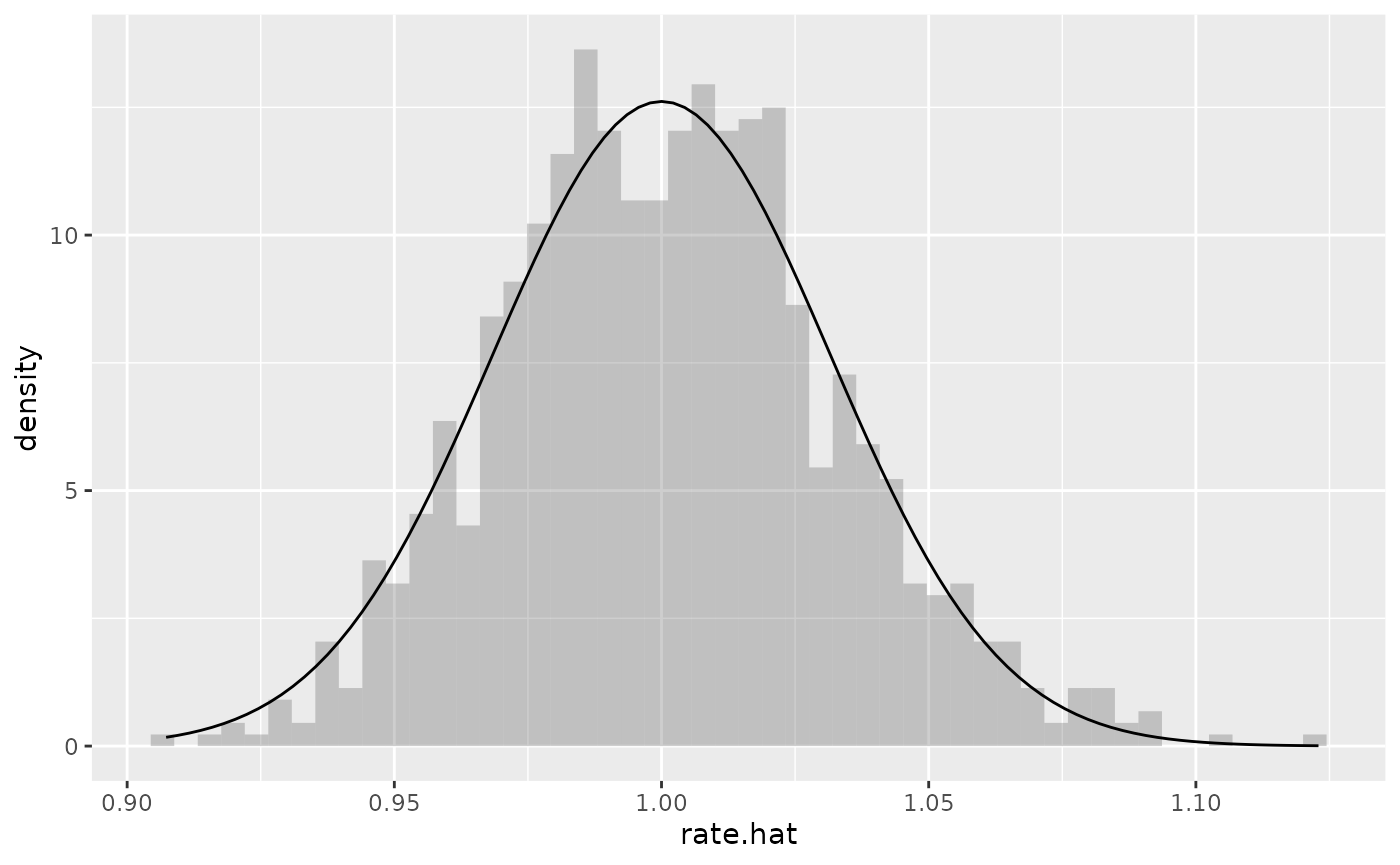
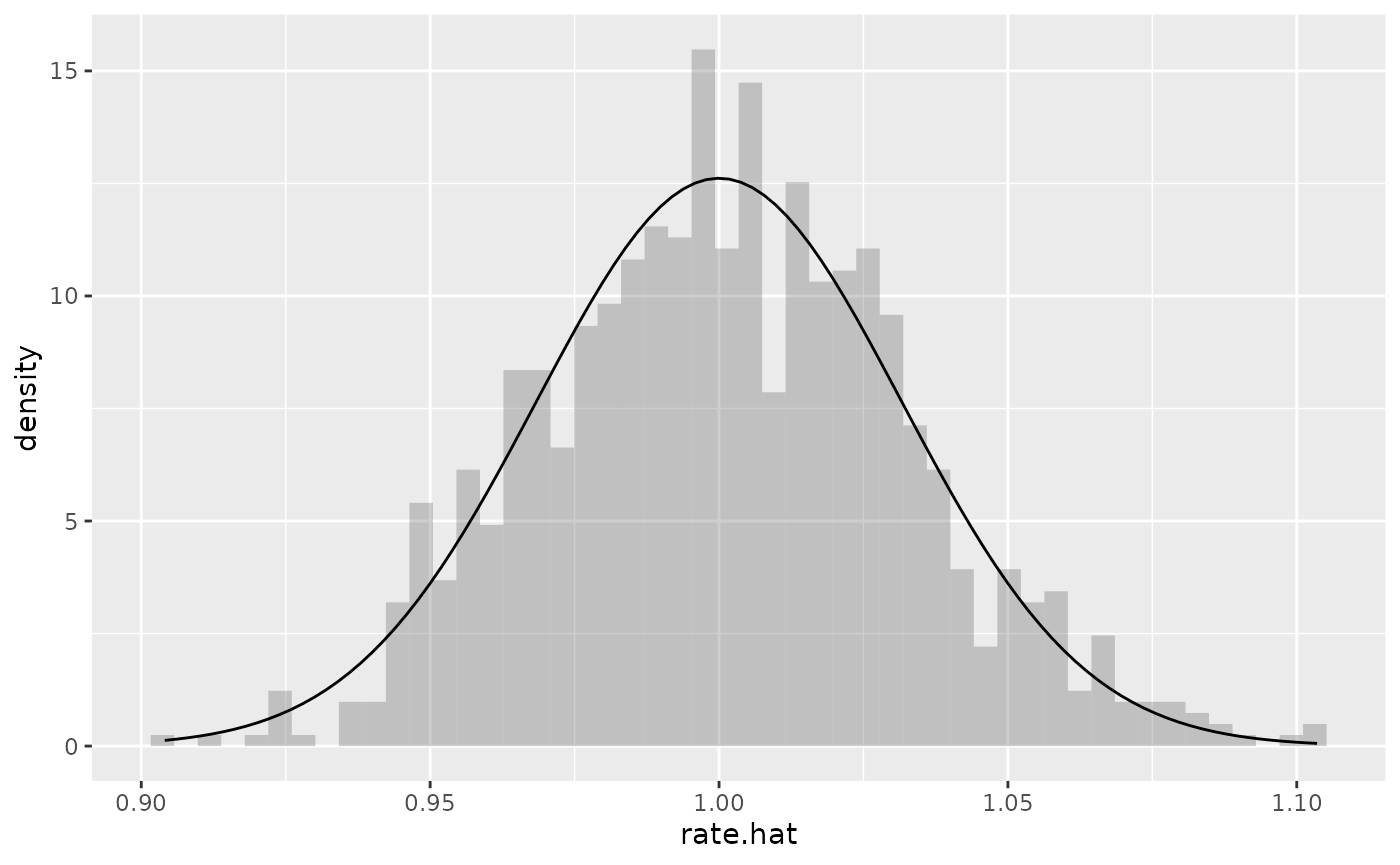
Built site for algebraic.mle: 0.9.0@a2ff642

diff --git a/articles/exponential-mle.html b/articles/exponential-mle.html
@@ -103,12 +103,12 @@
 <div class="sourceCode" id="cb4"><pre class="downlit sourceCode r">
 <code class="sourceCode R"><span><span class="fu"><a href="https://rdrr.io/r/base/print.html" class="external-link">print</a></span><span class="op">(</span><span class="fu"><a href="https://rdrr.io/r/utils/head.html" class="external-link">head</a></span><span class="op">(</span><span class="va">x</span>,n<span class="op">=</span><span class="fl">4</span><span class="op">)</span><span class="op">)</span></span>
 <span><span class="co">#&gt; <span style="color: #949494;"># A tibble: 4 × 1</span></span></span>
-<span><span class="co">#&gt;       x</span></span>
-<span><span class="co">#&gt;   <span style="color: #949494; font-style: italic;">&lt;dbl&gt;</span></span></span>
-<span><span class="co">#&gt; <span style="color: #BCBCBC;">1</span> 0.858</span></span>
-<span><span class="co">#&gt; <span style="color: #BCBCBC;">2</span> 1.18 </span></span>
-<span><span class="co">#&gt; <span style="color: #BCBCBC;">3</span> 1.50 </span></span>
-<span><span class="co">#&gt; <span style="color: #BCBCBC;">4</span> 3.23</span></span></code></pre></div>
+<span><span class="co">#&gt;        x</span></span>
+<span><span class="co">#&gt;    <span style="color: #949494; font-style: italic;">&lt;dbl&gt;</span></span></span>
+<span><span class="co">#&gt; <span style="color: #BCBCBC;">1</span> 0.782 </span></span>
+<span><span class="co">#&gt; <span style="color: #BCBCBC;">2</span> 0.938 </span></span>
+<span><span class="co">#&gt; <span style="color: #BCBCBC;">3</span> 0.042<span style="text-decoration: underline;">9</span></span></span>
+<span><span class="co">#&gt; <span style="color: #BCBCBC;">4</span> 0.980</span></span></code></pre></div>
 <p>We show a histogram of the sample overlaid with a plot of the exponential function’s pdf, with:</p>
 <div class="sourceCode" id="cb5"><pre class="downlit sourceCode r">
 <code class="sourceCode R"><span><span class="fu"><a href="https://ggplot2.tidyverse.org/reference/ggplot.html" class="external-link">ggplot</a></span><span class="op">(</span><span class="va">x</span>, <span class="fu"><a href="https://ggplot2.tidyverse.org/reference/aes.html" class="external-link">aes</a></span><span class="op">(</span>x<span class="op">=</span><span class="va">x</span><span class="op">)</span><span class="op">)</span> <span class="op">+</span> <span class="fu"><a href="https://ggplot2.tidyverse.org/reference/geom_histogram.html" class="external-link">geom_histogram</a></span><span class="op">(</span><span class="fu"><a href="https://ggplot2.tidyverse.org/reference/aes.html" class="external-link">aes</a></span><span class="op">(</span>y<span class="op">=</span><span class="va">..density..</span><span class="op">)</span>,alpha<span class="op">=</span><span class="fl">.2</span><span class="op">)</span> <span class="op">+</span></span>
@@ -125,35 +125,35 @@
 <span><span class="fu"><a href="https://rdrr.io/r/base/summary.html" class="external-link">summary</a></span><span class="op">(</span><span class="va">rate.hat</span><span class="op">)</span></span>
 <span><span class="co">#&gt; Maximum likelihood estimator, of type mle ,</span></span>
 <span><span class="co">#&gt; is normally distributed with mean</span></span>
-<span><span class="co">#&gt; [1] 0.9839979</span></span>
+<span><span class="co">#&gt; [1] 0.9782251</span></span>
 <span><span class="co">#&gt; and variance-covariance</span></span>
 <span><span class="co">#&gt;              [,1]</span></span>
-<span><span class="co">#&gt; [1,] 0.0009682519</span></span>
+<span><span class="co">#&gt; [1,] 0.0009569244</span></span>
 <span><span class="co">#&gt; ---</span></span>
-<span><span class="co">#&gt; The asymptotic mean squared error 0.0009682519 </span></span>
+<span><span class="co">#&gt; The asymptotic mean squared error 0.0009569244 </span></span>
 <span><span class="co">#&gt; The asymptotic 95% confidence interval is</span></span>
-<span><span class="co">#&gt;       2.5 %  97.5 %</span></span>
-<span><span class="co">#&gt; 1 0.9328154 1.03518</span></span>
-<span><span class="co">#&gt; The log-likelihood is -1016.132 </span></span>
-<span><span class="co">#&gt; The AIC is 2034.263</span></span></code></pre></div>
+<span><span class="co">#&gt;       2.5 %   97.5 %</span></span>
+<span><span class="co">#&gt; 1 0.9273429 1.029107</span></span>
+<span><span class="co">#&gt; The log-likelihood is -1022.015 </span></span>
+<span><span class="co">#&gt; The AIC is 2046.031</span></span></code></pre></div>
 <p>We can show the point estimator with:</p>
 <div class="sourceCode" id="cb7"><pre class="downlit sourceCode r">
 <code class="sourceCode R"><span><span class="fu"><a href="../reference/point.html">point</a></span><span class="op">(</span><span class="va">rate.hat</span><span class="op">)</span></span>
-<span><span class="co">#&gt; [1] 0.9839979</span></span></code></pre></div>
+<span><span class="co">#&gt; [1] 0.9782251</span></span></code></pre></div>
 <p>We can show the Fisher information and variance-covariance matrices with:</p>
 <div class="sourceCode" id="cb8"><pre class="downlit sourceCode r">
 <code class="sourceCode R"><span><span class="fu"><a href="../reference/fisher_info.html">fisher_info</a></span><span class="op">(</span><span class="va">rate.hat</span><span class="op">)</span></span>
 <span><span class="co">#&gt;          [,1]</span></span>
-<span><span class="co">#&gt; [1,] 1032.789</span></span>
+<span><span class="co">#&gt; [1,] 1045.015</span></span>
 <span><span class="fu"><a href="https://rdrr.io/r/stats/vcov.html" class="external-link">vcov</a></span><span class="op">(</span><span class="va">rate.hat</span><span class="op">)</span></span>
 <span><span class="co">#&gt;              [,1]</span></span>
-<span><span class="co">#&gt; [1,] 0.0009682519</span></span></code></pre></div>
+<span><span class="co">#&gt; [1,] 0.0009569244</span></span></code></pre></div>
 <p>(If <code>rate.hat</code> had been a vector, <code>vcov</code> would have output a variance-covariance matrix. We may consider the above outputs <span class="math inline">\(1 \times 1\)</span> matrices.)</p>
 <p>We can show the confidence interval with:</p>
 <div class="sourceCode" id="cb9"><pre class="downlit sourceCode r">
 <code class="sourceCode R"><span><span class="fu"><a href="https://rdrr.io/r/stats/confint.html" class="external-link">confint</a></span><span class="op">(</span><span class="va">rate.hat</span><span class="op">)</span></span>
-<span><span class="co">#&gt;       2.5 %  97.5 %</span></span>
-<span><span class="co">#&gt; 1 0.9328154 1.03518</span></span></code></pre></div>
+<span><span class="co">#&gt;       2.5 %   97.5 %</span></span>
+<span><span class="co">#&gt; 1 0.9273429 1.029107</span></span></code></pre></div>
 <div class="section level3">
 <h3 id="sampling-distribution-of-the-mle">Sampling distribution of the MLE<a class="anchor" aria-label="anchor" href="#sampling-distribution-of-the-mle"></a>
 </h3>
@@ -205,11 +205,11 @@
 <p>We expected a mean of <span class="math inline">\(2\)</span> and a variance of <span class="math inline">\(4/n = 0.004\)</span>, which is pretty close to what we obtained:</p>
 <div class="sourceCode" id="cb15"><pre class="downlit sourceCode r">
 <code class="sourceCode R"><span><span class="fu"><a href="../reference/point.html">point</a></span><span class="op">(</span><span class="va">f.hat</span><span class="op">)</span></span>
-<span><span class="co">#&gt;          [,1]</span></span>
-<span><span class="co">#&gt; [1,] 1.967996</span></span>
+<span><span class="co">#&gt;         [,1]</span></span>
+<span><span class="co">#&gt; [1,] 1.95645</span></span>
 <span><span class="fu"><a href="https://rdrr.io/r/stats/vcov.html" class="external-link">vcov</a></span><span class="op">(</span><span class="va">f.hat</span><span class="op">)</span></span>
 <span><span class="co">#&gt;             [,1]</span></span>
-<span><span class="co">#&gt; [1,] 0.003910891</span></span></code></pre></div>
+<span><span class="co">#&gt; [1,] 0.003513698</span></span></code></pre></div>
 </div>
 </div>
 </div>
@@ -248,9 +248,9 @@
 <span><span class="fu"><a href="https://rdrr.io/r/base/colnames.html" class="external-link">colnames</a></span><span class="op">(</span><span class="va">df</span><span class="op">)</span> <span class="op">&lt;-</span> <span class="fu"><a href="https://rdrr.io/r/base/c.html" class="external-link">c</a></span><span class="op">(</span><span class="st">"point estimate"</span>,<span class="st">"variance"</span><span class="op">)</span></span>
 <span><span class="fu"><a href="https://rdrr.io/r/base/colnames.html" class="external-link">rownames</a></span><span class="op">(</span><span class="va">df</span><span class="op">)</span> <span class="op">&lt;-</span> <span class="fu"><a href="https://rdrr.io/r/base/c.html" class="external-link">c</a></span><span class="op">(</span><span class="st">"weighted MLE"</span>, <span class="st">"MLE"</span><span class="op">)</span></span>
 <span><span class="fu"><a href="https://rdrr.io/r/base/print.html" class="external-link">print</a></span><span class="op">(</span><span class="va">df</span><span class="op">)</span></span>
-<span><span class="co">#&gt;              point estimate    variance</span></span>
-<span><span class="co">#&gt; weighted MLE       1.011491 0.001034620</span></span>
-<span><span class="co">#&gt; MLE                1.022866 0.001046255</span></span></code></pre></div>
+<span><span class="co">#&gt;              point estimate     variance</span></span>
+<span><span class="co">#&gt; weighted MLE      0.9823700 0.0009661937</span></span>
+<span><span class="co">#&gt; MLE               0.9835334 0.0009673379</span></span></code></pre></div>
 <p>We see that <span class="math inline">\(\hat\theta\)</span> and <span class="math inline">\(\hat\theta_w\)</span> model approximately the same sampling distribution for <span class="math inline">\(\theta\)</span>.</p>
 </div>
 </div>

diff --git a/reference/mle_boot.html b/reference/mle_boot.html
@@ -1,9 +1,9 @@
 <!DOCTYPE html>
 <!-- Generated by pkgdown: do not edit by hand --><html lang="en"><head><meta http-equiv="Content-Type" content="text/html; charset=UTF-8"><meta charset="utf-8"><meta http-equiv="X-UA-Compatible" content="IE=edge"><meta name="viewport" content="width=device-width, initial-scale=1, shrink-to-fit=no"><meta name="description" content="A function for estimating the empirical sampling distribution the
-MLE using the Bootstrap method."><title>A function for estimating the empirical sampling distribution the
-MLE using the Bootstrap method. — mle_boot • algebraic.mle</title><script src="../deps/jquery-3.6.0/jquery-3.6.0.min.js"></script><meta name="viewport" content="width=device-width, initial-scale=1, shrink-to-fit=no"><link href="../deps/bootstrap-5.1.0/bootstrap.min.css" rel="stylesheet"><script src="../deps/bootstrap-5.1.0/bootstrap.bundle.min.js"></script><!-- Font Awesome icons --><link rel="stylesheet" href="https://cdnjs.cloudflare.com/ajax/libs/font-awesome/5.12.1/css/all.min.css" integrity="sha256-mmgLkCYLUQbXn0B1SRqzHar6dCnv9oZFPEC1g1cwlkk=" crossorigin="anonymous"><link rel="stylesheet" href="https://cdnjs.cloudflare.com/ajax/libs/font-awesome/5.12.1/css/v4-shims.min.css" integrity="sha256-wZjR52fzng1pJHwx4aV2AO3yyTOXrcDW7jBpJtTwVxw=" crossorigin="anonymous"><!-- bootstrap-toc --><script src="https://cdn.rawgit.com/afeld/bootstrap-toc/v1.0.1/dist/bootstrap-toc.min.js"></script><!-- headroom.js --><script src="https://cdnjs.cloudflare.com/ajax/libs/headroom/0.11.0/headroom.min.js" integrity="sha256-AsUX4SJE1+yuDu5+mAVzJbuYNPHj/WroHuZ8Ir/CkE0=" crossorigin="anonymous"></script><script src="https://cdnjs.cloudflare.com/ajax/libs/headroom/0.11.0/jQuery.headroom.min.js" integrity="sha256-ZX/yNShbjqsohH1k95liqY9Gd8uOiE1S4vZc+9KQ1K4=" crossorigin="anonymous"></script><!-- clipboard.js --><script src="https://cdnjs.cloudflare.com/ajax/libs/clipboard.js/2.0.6/clipboard.min.js" integrity="sha256-inc5kl9MA1hkeYUt+EC3BhlIgyp/2jDIyBLS6k3UxPI=" crossorigin="anonymous"></script><!-- search --><script src="https://cdnjs.cloudflare.com/ajax/libs/fuse.js/6.4.6/fuse.js" integrity="sha512-zv6Ywkjyktsohkbp9bb45V6tEMoWhzFzXis+LrMehmJZZSys19Yxf1dopHx7WzIKxr5tK2dVcYmaCk2uqdjF4A==" crossorigin="anonymous"></script><script src="https://cdnjs.cloudflare.com/ajax/libs/autocomplete.js/0.38.0/autocomplete.jquery.min.js" integrity="sha512-GU9ayf+66Xx2TmpxqJpliWbT5PiGYxpaG8rfnBEk1LL8l1KGkRShhngwdXK1UgqhAzWpZHSiYPc09/NwDQIGyg==" crossorigin="anonymous"></script><script src="https://cdnjs.cloudflare.com/ajax/libs/mark.js/8.11.1/mark.min.js" integrity="sha512-5CYOlHXGh6QpOFA/TeTylKLWfB3ftPsde7AnmhuitiTX4K5SqCLBeKro6sPS8ilsz1Q4NRx3v8Ko2IBiszzdww==" crossorigin="anonymous"></script><!-- pkgdown --><script src="../pkgdown.js"></script><meta property="og:title" content="A function for estimating the empirical sampling distribution the
-MLE using the Bootstrap method. — mle_boot"><meta property="og:description" content="A function for estimating the empirical sampling distribution the
-MLE using the Bootstrap method."><!-- mathjax --><script src="https://cdnjs.cloudflare.com/ajax/libs/mathjax/2.7.5/MathJax.js" integrity="sha256-nvJJv9wWKEm88qvoQl9ekL2J+k/RWIsaSScxxlsrv8k=" crossorigin="anonymous"></script><script src="https://cdnjs.cloudflare.com/ajax/libs/mathjax/2.7.5/config/TeX-AMS-MML_HTMLorMML.js" integrity="sha256-84DKXVJXs0/F8OTMzX4UR909+jtl4G7SPypPavF+GfA=" crossorigin="anonymous"></script><!--[if lt IE 9]>
+MLE given a MLE solver and a sample using the Bootstrap method."><title>A function for estimating the empirical sampling distribution the
+MLE given a MLE solver and a sample using the Bootstrap method. — mle_boot • algebraic.mle</title><script src="../deps/jquery-3.6.0/jquery-3.6.0.min.js"></script><meta name="viewport" content="width=device-width, initial-scale=1, shrink-to-fit=no"><link href="../deps/bootstrap-5.1.0/bootstrap.min.css" rel="stylesheet"><script src="../deps/bootstrap-5.1.0/bootstrap.bundle.min.js"></script><!-- Font Awesome icons --><link rel="stylesheet" href="https://cdnjs.cloudflare.com/ajax/libs/font-awesome/5.12.1/css/all.min.css" integrity="sha256-mmgLkCYLUQbXn0B1SRqzHar6dCnv9oZFPEC1g1cwlkk=" crossorigin="anonymous"><link rel="stylesheet" href="https://cdnjs.cloudflare.com/ajax/libs/font-awesome/5.12.1/css/v4-shims.min.css" integrity="sha256-wZjR52fzng1pJHwx4aV2AO3yyTOXrcDW7jBpJtTwVxw=" crossorigin="anonymous"><!-- bootstrap-toc --><script src="https://cdn.rawgit.com/afeld/bootstrap-toc/v1.0.1/dist/bootstrap-toc.min.js"></script><!-- headroom.js --><script src="https://cdnjs.cloudflare.com/ajax/libs/headroom/0.11.0/headroom.min.js" integrity="sha256-AsUX4SJE1+yuDu5+mAVzJbuYNPHj/WroHuZ8Ir/CkE0=" crossorigin="anonymous"></script><script src="https://cdnjs.cloudflare.com/ajax/libs/headroom/0.11.0/jQuery.headroom.min.js" integrity="sha256-ZX/yNShbjqsohH1k95liqY9Gd8uOiE1S4vZc+9KQ1K4=" crossorigin="anonymous"></script><!-- clipboard.js --><script src="https://cdnjs.cloudflare.com/ajax/libs/clipboard.js/2.0.6/clipboard.min.js" integrity="sha256-inc5kl9MA1hkeYUt+EC3BhlIgyp/2jDIyBLS6k3UxPI=" crossorigin="anonymous"></script><!-- search --><script src="https://cdnjs.cloudflare.com/ajax/libs/fuse.js/6.4.6/fuse.js" integrity="sha512-zv6Ywkjyktsohkbp9bb45V6tEMoWhzFzXis+LrMehmJZZSys19Yxf1dopHx7WzIKxr5tK2dVcYmaCk2uqdjF4A==" crossorigin="anonymous"></script><script src="https://cdnjs.cloudflare.com/ajax/libs/autocomplete.js/0.38.0/autocomplete.jquery.min.js" integrity="sha512-GU9ayf+66Xx2TmpxqJpliWbT5PiGYxpaG8rfnBEk1LL8l1KGkRShhngwdXK1UgqhAzWpZHSiYPc09/NwDQIGyg==" crossorigin="anonymous"></script><script src="https://cdnjs.cloudflare.com/ajax/libs/mark.js/8.11.1/mark.min.js" integrity="sha512-5CYOlHXGh6QpOFA/TeTylKLWfB3ftPsde7AnmhuitiTX4K5SqCLBeKro6sPS8ilsz1Q4NRx3v8Ko2IBiszzdww==" crossorigin="anonymous"></script><!-- pkgdown --><script src="../pkgdown.js"></script><meta property="og:title" content="A function for estimating the empirical sampling distribution the
+MLE given a MLE solver and a sample using the Bootstrap method. — mle_boot"><meta property="og:description" content="A function for estimating the empirical sampling distribution the
+MLE given a MLE solver and a sample using the Bootstrap method."><!-- mathjax --><script src="https://cdnjs.cloudflare.com/ajax/libs/mathjax/2.7.5/MathJax.js" integrity="sha256-nvJJv9wWKEm88qvoQl9ekL2J+k/RWIsaSScxxlsrv8k=" crossorigin="anonymous"></script><script src="https://cdnjs.cloudflare.com/ajax/libs/mathjax/2.7.5/config/TeX-AMS-MML_HTMLorMML.js" integrity="sha256-84DKXVJXs0/F8OTMzX4UR909+jtl4G7SPypPavF+GfA=" crossorigin="anonymous"></script><!--[if lt IE 9]>
 <script src="https://oss.maxcdn.com/html5shiv/3.7.3/html5shiv.min.js"></script>
 <script src="https://oss.maxcdn.com/respond/1.4.2/respond.min.js"></script>
 <![endif]--></head><body>
@@ -51,34 +51,29 @@ MLE using the Bootstrap method."><!-- mathjax --><script src="https://cdnjs.clou
 <div class="row">
   <main id="main" class="col-md-9"><div class="page-header">
       <img src="" class="logo" alt=""><h1>A function for estimating the empirical sampling distribution the
-MLE using the Bootstrap method.</h1>
+MLE given a MLE solver and a sample using the Bootstrap method.</h1>
       <small class="dont-index">Source: <a href="https://github.com/queelius/algebraic.mle/blob/HEAD/R/boot.R" class="external-link"><code>R/boot.R</code></a></small>
       <div class="d-none name"><code>mle_boot.Rd</code></div>
     </div>
 
     <div class="ref-description section level2">
     <p>A function for estimating the empirical sampling distribution the
-MLE using the Bootstrap method.</p>
+MLE given a MLE solver and a sample using the Bootstrap method.</p>
     </div>
 
     <div class="section level2">
     <h2 id="ref-usage">Usage<a class="anchor" aria-label="anchor" href="#ref-usage"></a></h2>
-    <div class="sourceCode"><pre class="sourceCode r"><code><span><span class="fu">mle_boot</span><span class="op">(</span><span class="va">mle</span>, <span class="va">mle_solver</span>, data <span class="op">=</span> <span class="cn">NULL</span>, R <span class="op">=</span> <span class="cn">NULL</span>, <span class="va">...</span><span class="op">)</span></span></code></pre></div>
+    <div class="sourceCode"><pre class="sourceCode r"><code><span><span class="fu">mle_boot</span><span class="op">(</span><span class="va">mle_solver</span>, <span class="va">data</span>, R <span class="op">=</span> <span class="fl">599</span>, <span class="va">...</span><span class="op">)</span></span></code></pre></div>
     </div>
 
     <div class="section level2">
     <h2 id="arguments">Arguments<a class="anchor" aria-label="anchor" href="#arguments"></a></h2>
-    <dl><dt>mle</dt>
-<dd><p>a fitted <code>mle</code> object.</p></dd>
-
-
-<dt>mle_solver</dt>
-<dd><p>given <code>data</code> find the MLE</p></dd>
+    <dl><dt>mle_solver</dt>
+<dd><p>given a data, find the MLE.</p></dd>
 
 
 <dt>data</dt>
-<dd><p>data for generatinng MLEs for the bootstrap resampling; default
-is NULL. If NULL, then try to use <code>obs(x)</code> instead.</p></dd>
+<dd><p>data for resampling, where for each resample we generate an MLE</p></dd>
 
 
 <dt>R</dt>

diff --git a/reference/mle_boot_loglike.html b/reference/mle_boot_loglike.html
@@ -81,13 +81,11 @@ MLE's sampling distribution using the Bootstrap method.</p>
 
 <dt>loglike.gen</dt>
 <dd><p>a generator for the log-likelihood function; it accepts
-observations and constructs the log-likelihood function
-with the <code>data</code> fixed and as a function of theta.</p></dd>
+observations and constructs the log-likelihood function</p></dd>
 
 
 <dt>data</dt>
-<dd><p>data for generating MLEs for the bootstrap resampling; default
-is NULL. If NULL, then try to use <code>obs(x)</code> instead.</p></dd>
+<dd><p>data for generating MLEs for the bootstrap resampling.</p></dd>
 
 
 <dt>R</dt>
@@ -95,8 +93,9 @@ is NULL. If NULL, then try to use <code>obs(x)</code> instead.</p></dd>
 
 
 <dt>method</dt>
-<dd><p>method for soliving the maximum likelihood equationsm, defaults
-to Newton-raphson.</p></dd>
+<dd><p>method for solving the MLE, defaults to numerically solving
+the root of the gradient of the log-likelihood using
+Newton-raphson.</p></dd>
 
 
 <dt>...</dt>

diff --git a/reference/index.html b/reference/index.html
@@ -134,7 +134,7 @@ object, assuming it has a likelihood function, e.g., a fitted `mle` object.</dd>
           <code><a href="mle_boot.html">mle_boot()</a></code> 
         </dt>
         <dd>A function for estimating the empirical sampling distribution the
-MLE using the Bootstrap method.</dd>
+MLE given a MLE solver and a sample using the Bootstrap method.</dd>
       </dl><dl><dt>
           
           <code><a href="mle_boot_loglike.html">mle_boot_loglike()</a></code> 
